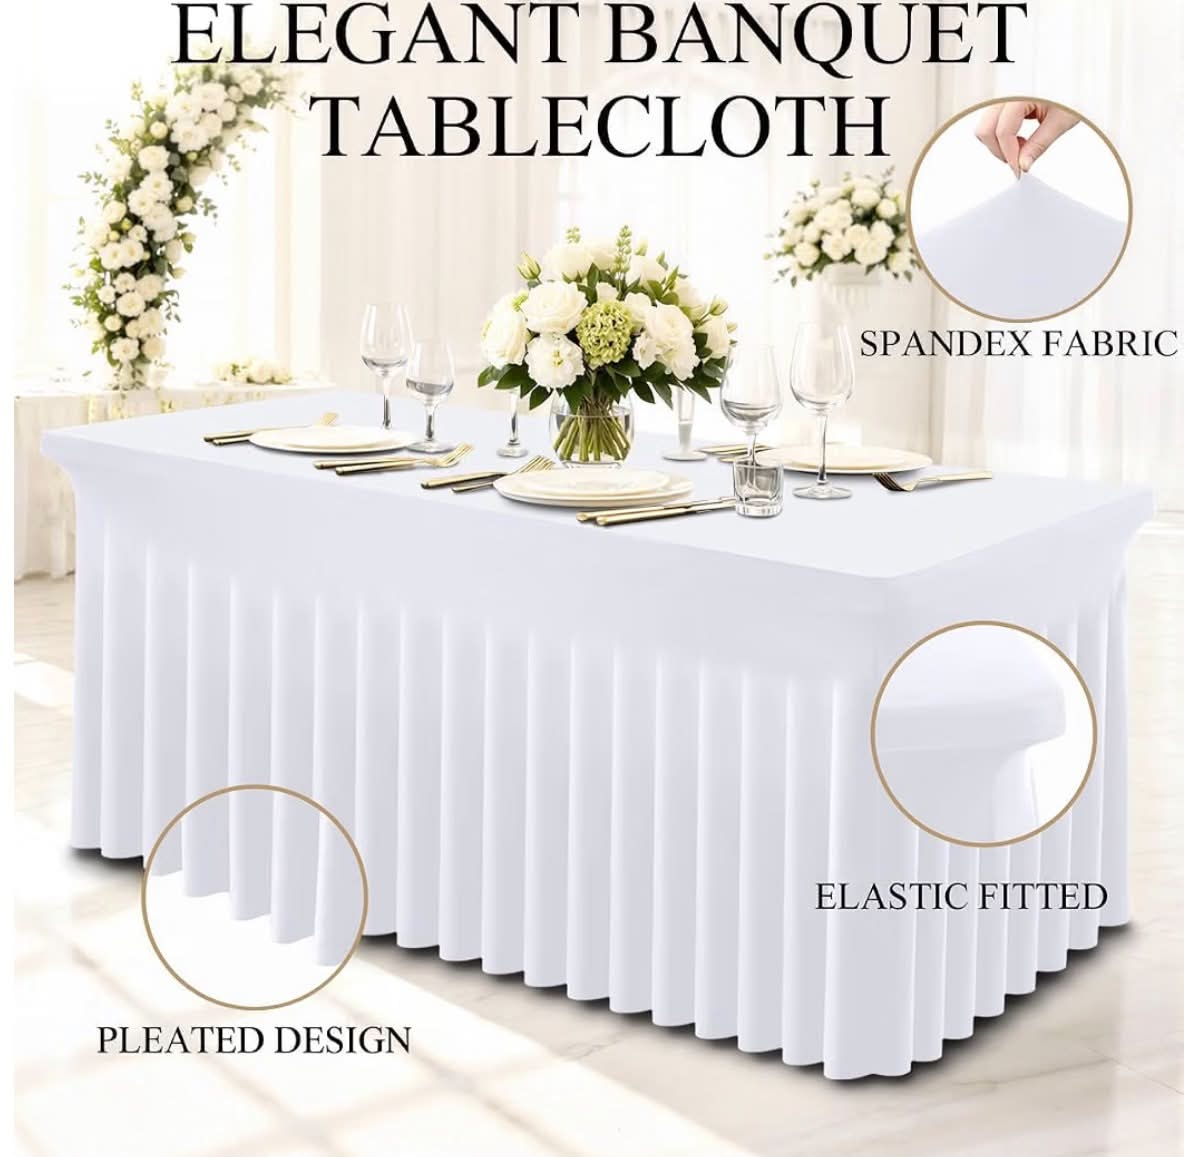
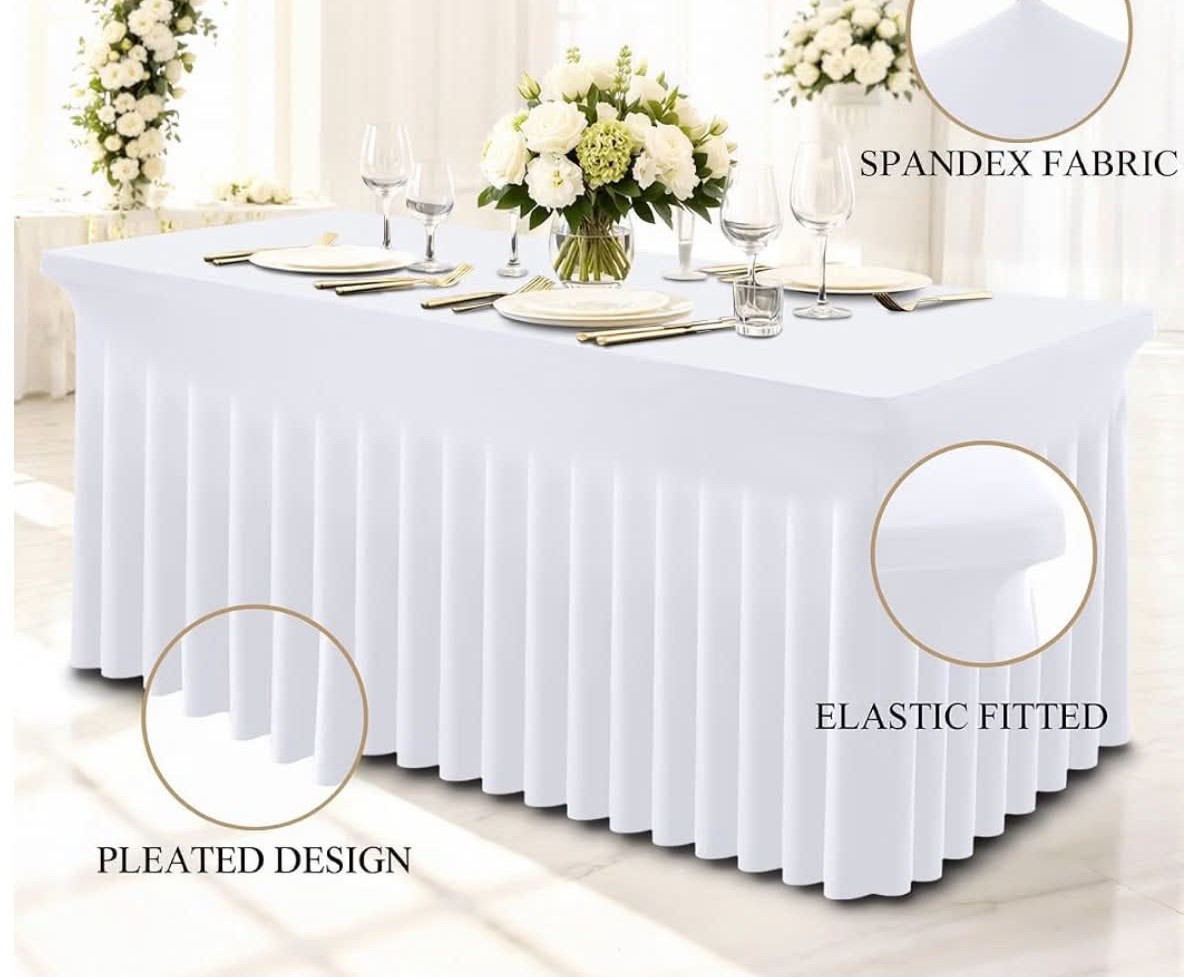
Fix mobile dropdown overflow and letterboxed Tablecloths photos
Variant select dropdowns had no min-width: 0, so as flex items they
wouldn't shrink below their option text's intrinsic width — on narrow
screens this pushed them past the card's padding, flush against the
edge. Added min-width: 0 so flex:1 can actually shrink them to fit.

Marked Tablecloths' gallery cover:true (it's a real colorful photo
set, not plain white-background product shots) to stop the white
letterbox bars showing on the sides — same fix applied to Tents/Table
Setups earlier. Also re-cropped the "fitted detail" photo to drop its
title banner, which cover's crop was clipping into an ugly half-cut
header.

Changed region(s): [[0.0, 0.0, 1.0, 0.9519], [0.0, 0.4606, 0.0625, 0.5527], [0.875, 0.3685, 0.9062, 0.4299]]

diff --git a/src/data/pricing.js b/src/data/pricing.js
@@ -108,6 +108,7 @@ export const pricingGroups = [
           "/items/linens/tablecloth_blue.jpg",
           "/items/linens/tablecloth_ivory.jpg",
         ],
+        cover: true,
         variants: [
           {
             key: "size",

diff --git a/src/pages/Pricing.css b/src/pages/Pricing.css
@@ -194,6 +194,7 @@
 
 .pricing-item-card-size select {
   flex: 1;
+  min-width: 0;
   padding: 8px 10px;
   border: 1px solid var(--color-border);
   border-radius: var(--radius-sm);
